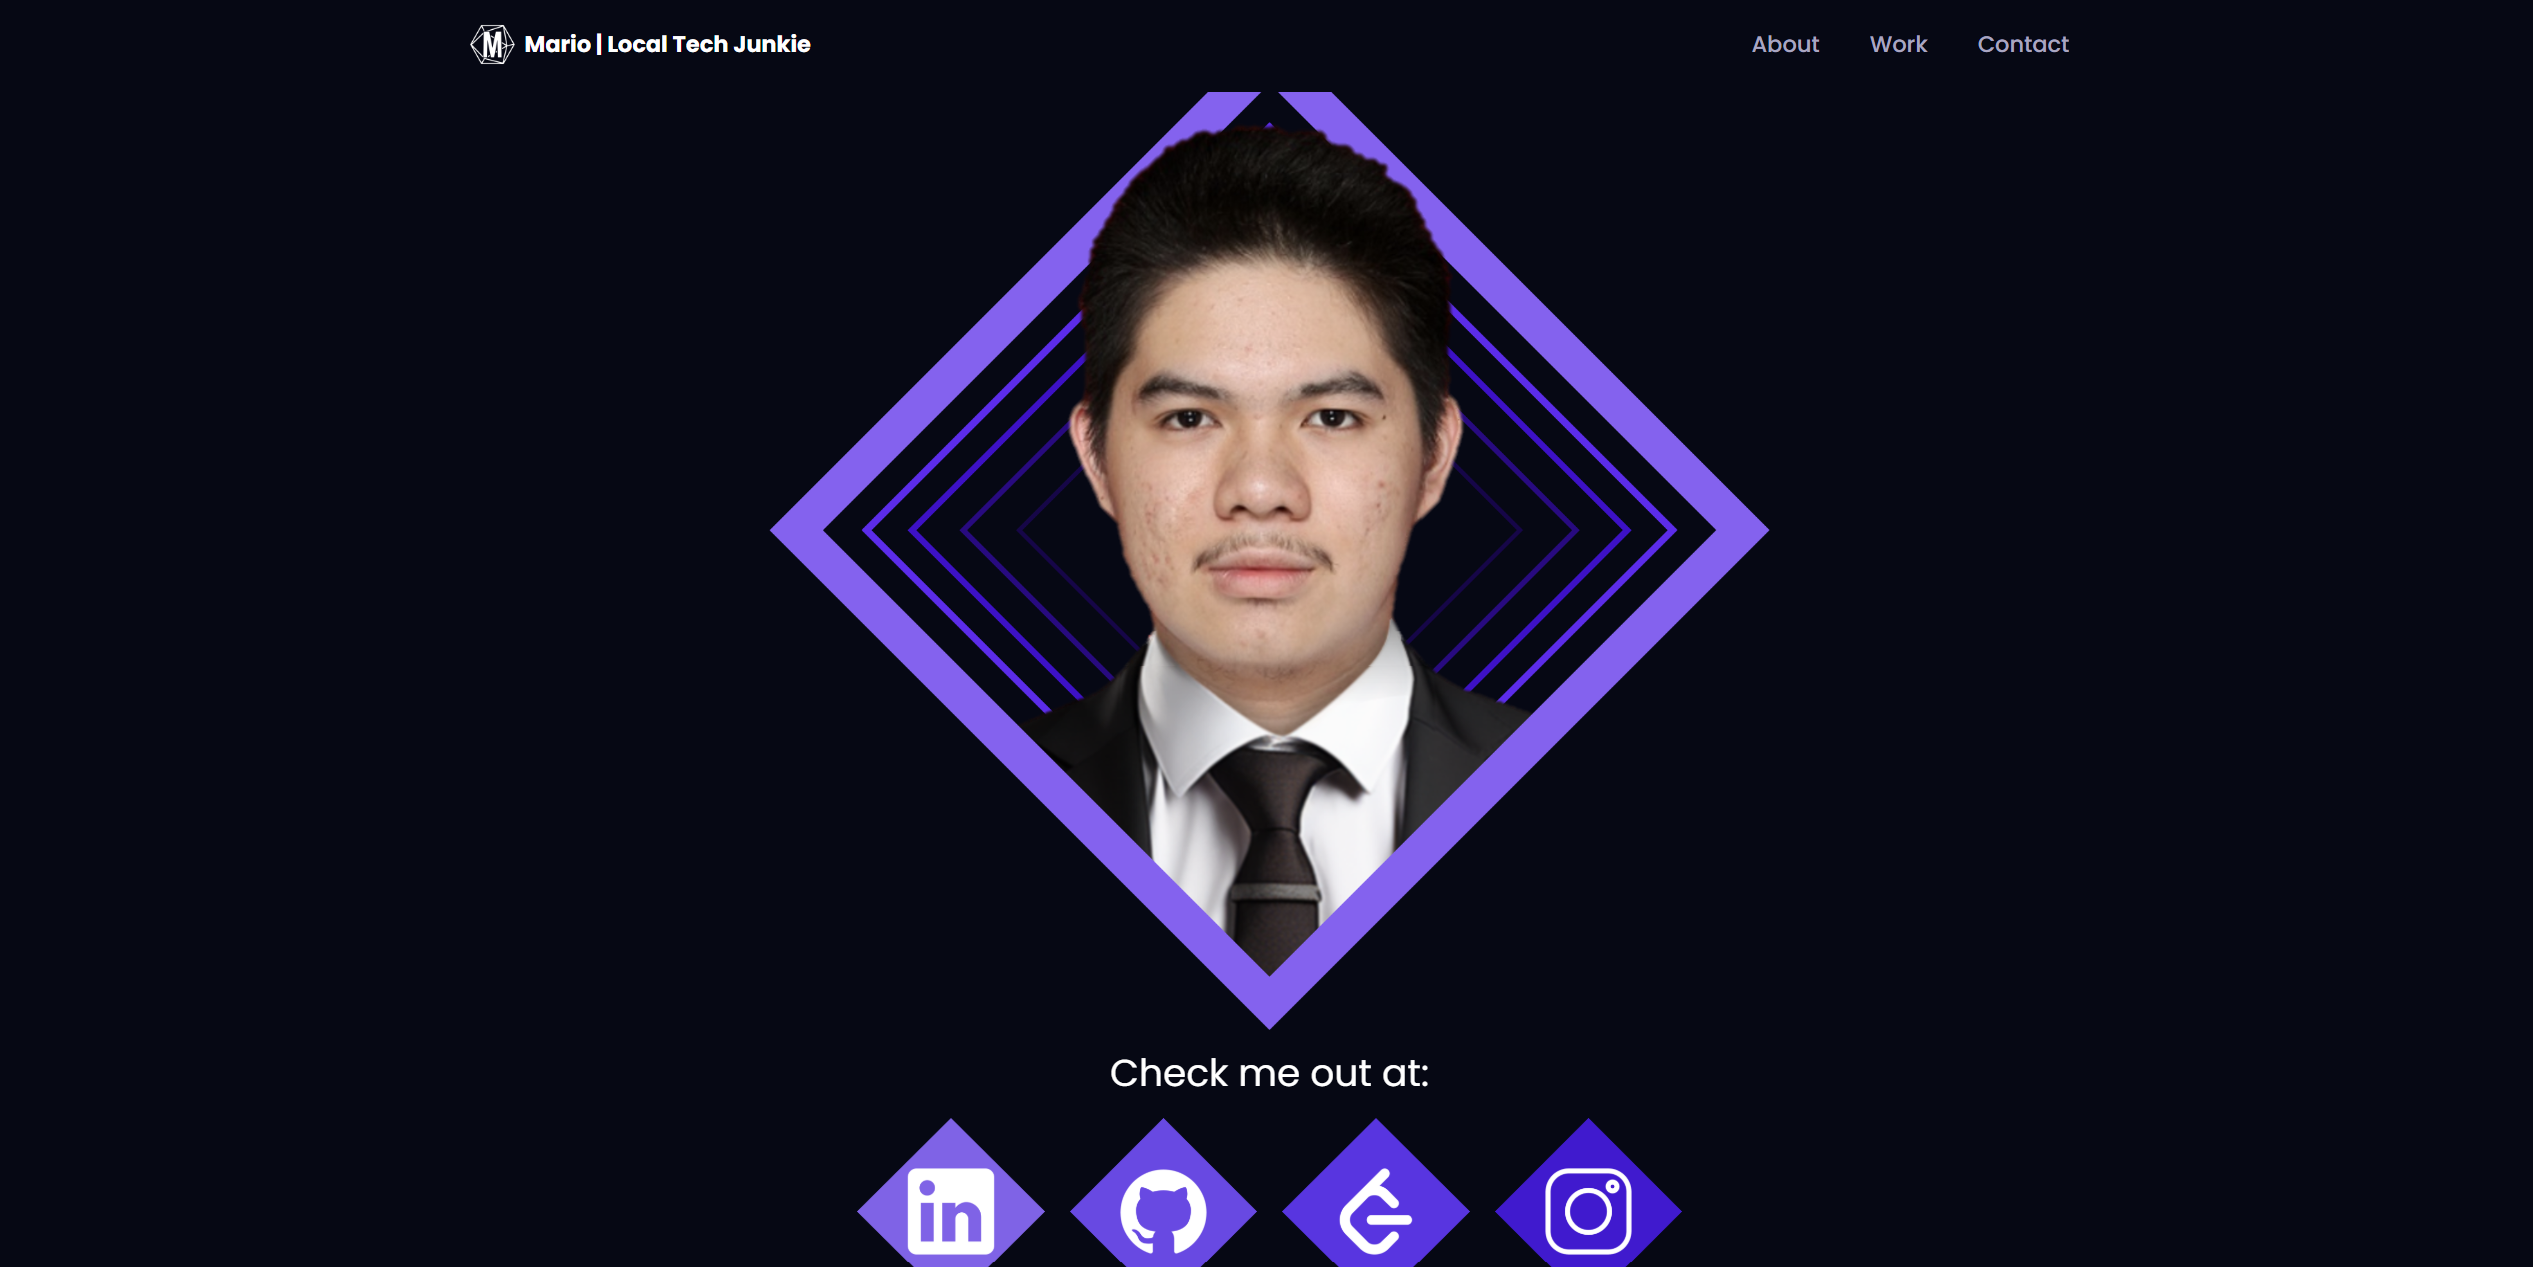
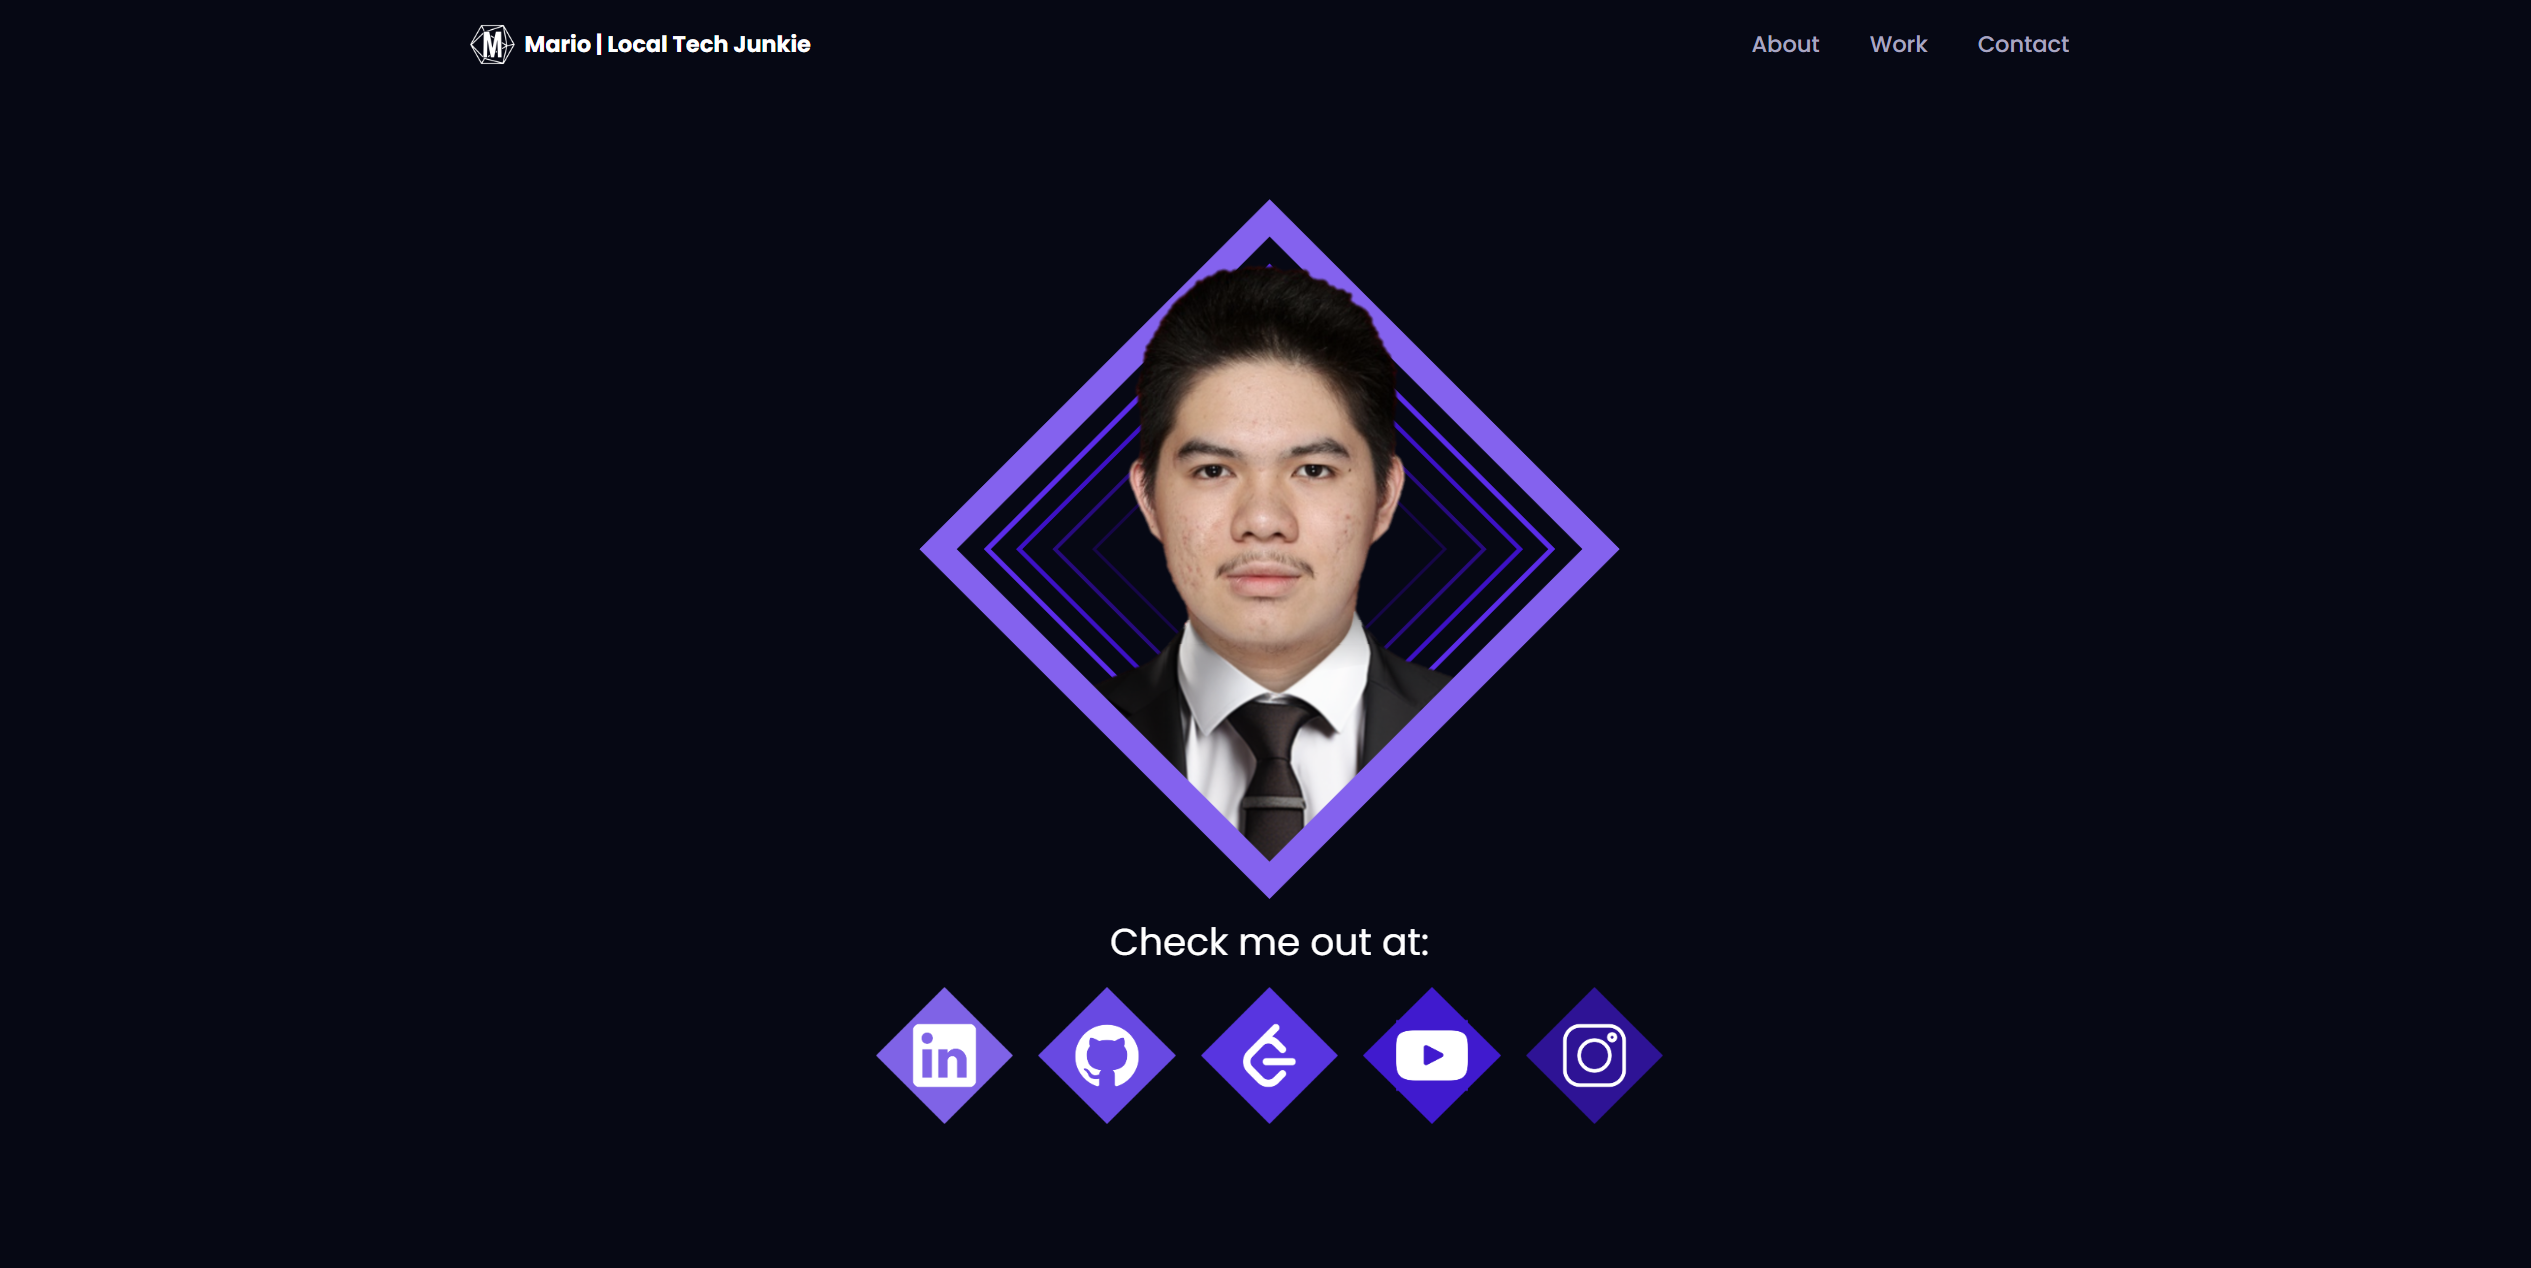
added mario youtube link + update README

diff --git a/src/components/About.jsx b/src/components/About.jsx
@@ -11,6 +11,7 @@ import mario from '../assets/mario.png';
 import linkedinIcon from '../assets/socialmedialinkedin.png';
 import githubIcon from '../assets/socialmediagithub.png';
 import leetcodeIcon from '../assets/socialmedialeetcode.png';
+import youtubeIcon from '../assets/socialmediayoutube.png';
 import instagramIcon from '../assets/socialmediainstagram.png';
 
 const ServiceCard = ({ index, title, icon }) => {
@@ -52,7 +53,7 @@ const About = () => {
           variants={fadeIn("", "", 0.2, 3)} // Adjust direction, easing, delay, duration as needed
           initial="hidden"
           animate="show"
-          className="mx-auto h-[15rem] sm:h-[25rem] md:h-[30rem] lg:h-[35rem] xl:h-[40rem] object-contain" // Responsive height classes
+          className="mx-auto h-[15rem] sm:h-[25rem] md:h-[30rem] lg:h-[35rem] object-contain" // Responsive height classes
         />
       </div>
 
@@ -61,13 +62,13 @@ const About = () => {
       </p>
 
       {/* Social Media Links */}
-      <div className="flex justify-center gap-5 mb-28">
+      <div className="flex justify-center gap-2 sm:gap-5 mb-28">
         <div className="group relative">
           <a href="https://www.linkedin.com/in/mario-without-last-name/" target="_blank" rel="noopener noreferrer">
             <img 
               src={linkedinIcon} 
               alt="LinkedIn" 
-              className="w-[50px] h-[50px] sm:w-[100px] sm:h-[100px] lg:w-[150px] lg:h-[150px] object-contain" 
+              className="w-[50px] h-[50px] sm:w-[80px] sm:h-[80px] lg:w-[110px] lg:h-[110px] object-contain" 
             />
           </a>
           <div className="absolute bottom-0 left-1/2 transform -translate-x-1/2 translate-y-full opacity-0 group-hover:opacity-100 transition-opacity duration-300 bg-gray-700 text-white text-xs rounded-md p-2 mt-2 whitespace-nowrap">
@@ -80,7 +81,7 @@ const About = () => {
             <img 
               src={githubIcon} 
               alt="GitHub" 
-              className="w-[50px] h-[50px] sm:w-[100px] sm:h-[100px] lg:w-[150px] lg:h-[150px] object-contain" 
+              className="w-[50px] h-[50px] sm:w-[80px] sm:h-[80px] lg:w-[110px] lg:h-[110px] object-contain" 
             />
           </a>
           <div className="absolute bottom-0 left-1/2 transform -translate-x-1/2 translate-y-full opacity-0 group-hover:opacity-100 transition-opacity duration-300 bg-gray-700 text-white text-xs rounded-md p-2 mt-2 whitespace-nowrap">
@@ -93,7 +94,7 @@ const About = () => {
             <img 
               src={leetcodeIcon} 
               alt="LeetCode" 
-              className="w-[50px] h-[50px] sm:w-[100px] sm:h-[100px] lg:w-[150px] lg:h-[150px] object-contain" 
+              className="w-[50px] h-[50px] sm:w-[80px] sm:h-[80px] lg:w-[110px] lg:h-[110px] object-contain" 
             />
           </a>
           <div className="absolute bottom-0 left-1/2 transform -translate-x-1/2 translate-y-full opacity-0 group-hover:opacity-100 transition-opacity duration-300 bg-gray-700 text-white text-xs rounded-md p-2 mt-2 whitespace-nowrap">
@@ -102,18 +103,34 @@ const About = () => {
         </div>
 
         <div className="group relative">
+          <a href="https://www.youtube.com/@mariomario2728" target="_blank" rel="noopener noreferrer">
+            <img 
+              src={youtubeIcon} 
+              alt="Youtube" 
+              className="w-[50px] h-[50px] sm:w-[80px] sm:h-[80px] lg:w-[110px] lg:h-[110px] object-contain" 
+            />
+          </a>
+          <div className="absolute bottom-0 left-1/2 transform -translate-x-1/2 translate-y-full opacity-0 group-hover:opacity-100 transition-opacity duration-300 bg-gray-700 text-white text-xs rounded-md p-2 mt-2 whitespace-nowrap">
+            Youtube
+          </div>
+        </div>
+
+        <div className="group relative">
           <a href="https://www.instagram.com/mario_no_last_name/?igsh=eGhsZnQ0bW84dWNy" target="_blank" rel="noopener noreferrer">
             <img 
               src={instagramIcon} 
               alt="Instagram" 
-              className="w-[50px] h-[50px] sm:w-[100px] sm:h-[100px] lg:w-[150px] lg:h-[150px] object-contain" 
+              className="w-[50px] h-[50px] sm:w-[80px] sm:h-[80px] lg:w-[110px] lg:h-[110px] object-contain" 
             />
           </a>
           <div className="absolute bottom-0 left-1/2 transform -translate-x-1/2 translate-y-full opacity-0 group-hover:opacity-100 transition-opacity duration-300 bg-gray-700 text-white text-xs rounded-md p-2 mt-2 whitespace-nowrap">
             Instagram
           </div>
         </div>
+
       </div>
+
+
 
 
       <p className={styles.sectionSubText}>So who am I?</p>
